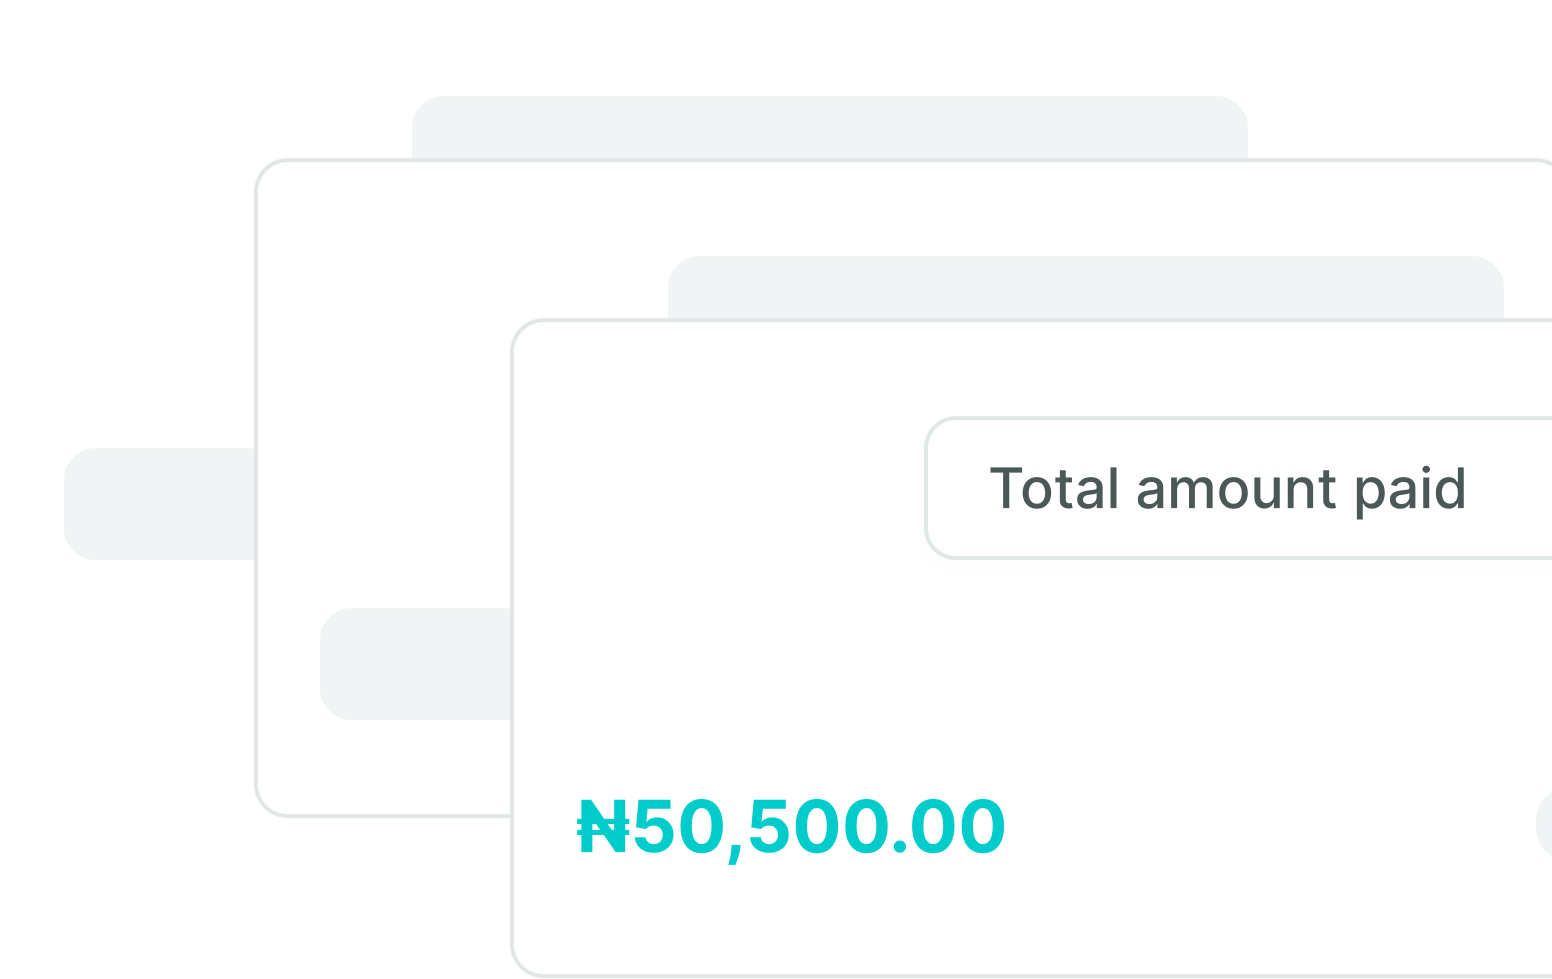
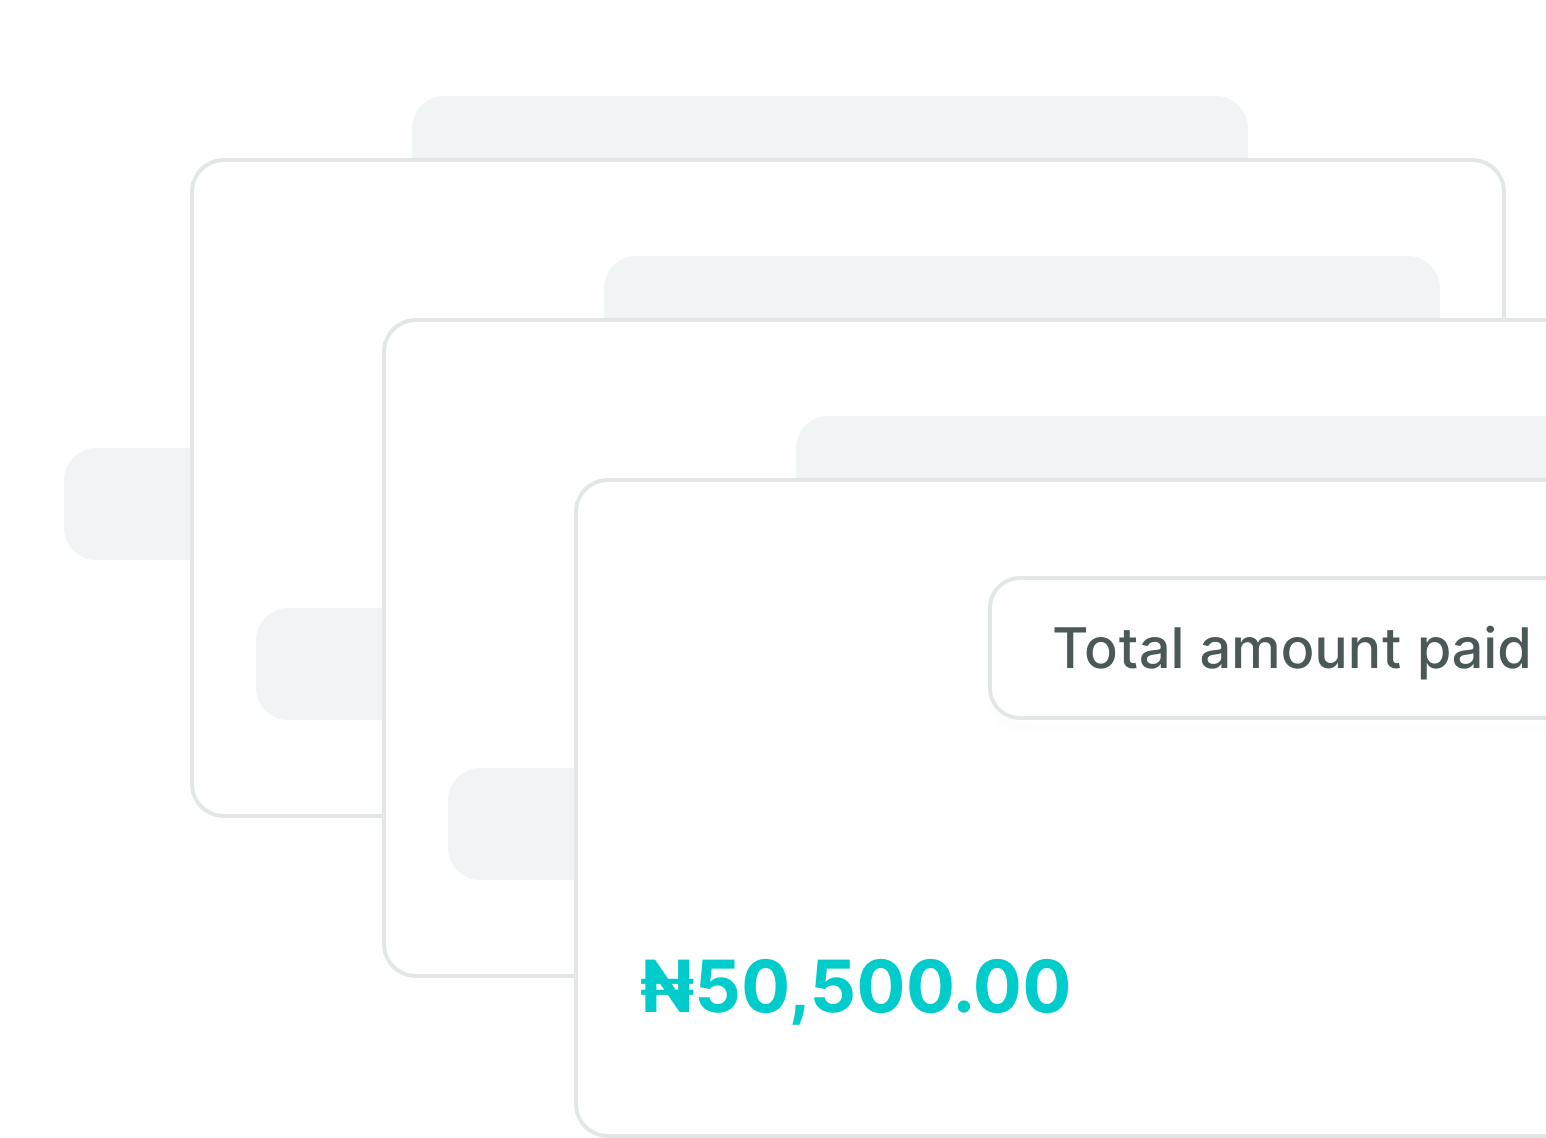
new commit

diff --git a/src/style.css b/src/style.css
@@ -183,7 +183,7 @@ body::-webkit-scrollbar {
   display: flex;
   justify-content: center;
   align-items: center;
-  padding: 32px 56px;
+  padding: 24px 80px;
   text-align: center;
   font-weight: 600;
   font-family: "Inter";
@@ -344,7 +344,7 @@ p {
 .group {
   height: 244px;
   position: relative;
-  left: 17px;
+  left: 44px;
 }
 
 .payment,
@@ -383,6 +383,13 @@ p {
   display: grid;
   place-items: center;
   gap: 24px;
+}
+
+.profilepage1 {
+  display: grid;
+  place-items: center;
+  gap: 24px;
+  padding: 80px 295px;
 }
 
 .more {
@@ -485,16 +492,16 @@ p {
 
 .arrow-left {
   padding: 12px;
-  width: 48px;
-  height: 48px;
+  width: 24px;
+  height: 24px;
   border-radius: 64px;
   background-color: hsl(180, 17%, 98%, 1);
 }
 
 .arrow-right {
   padding: 12px;
-  width: 48px;
-  height: 48px;
+  width: 24px;
+  height: 24px;
   border-radius: 64px;
   background-color: hsl(180, 17%, 98%, 1);
   transform: rotate(180deg);
@@ -531,7 +538,7 @@ p {
 .hr {
   border: 1px solid hsla(180, 11%, 89%, 1);
   transform: rotate(0deg);
-  width: 290px;
+  width: 352px;
   margin-top: 50px;
 }
 
@@ -729,6 +736,10 @@ a {
     height: 32px;
   }
 
+  .profilepage1 {
+    padding: 32px 24px;
+  }
+
   .luround4 {
     display: block;
   }
@@ -745,6 +756,10 @@ a {
     right: -600px;
     overflow-y: auto;
     transition: 0.9s ease;
+  }
+
+  .slick-slide {
+    width: 312px;
   }
 
   .help-list {
@@ -905,6 +920,10 @@ a {
   .integrated {
     font-size: 24px;
     width: 205px;
+  }
+
+  .gridcontainer {
+    padding: 32px 24px;
   }
 
   .profilepage,
@@ -1121,7 +1140,8 @@ a {
   }
 
   .datareview {
-    font-size: 14px;
+    font-size: 16px;
+    width: 280px;
   }
 
   .businessowner {
@@ -1129,11 +1149,11 @@ a {
   }
 
   .hr {
-    width: 250px;
+    width: 280px;
   }
 
   .slick-track {
-    gap: 10px;
+    gap: 0px;
   }
 
   .name {
@@ -1289,9 +1309,7 @@ a {
   }
 
   .group {
-    padding: 0px 24px;
-    height: 205px;
-    left: 25px;
+    left: 17px;
   }
 
   .profile-p {
@@ -1313,13 +1331,12 @@ a {
     font-size: 14px;
   }
   .businessimage {
-    height: 280px;
+    height: 270px;
     padding: 0px 18px;
   }
 
   .contactimage {
-    padding: 0px 24px;
-    height: 290px;
+    height: 280px;
     padding: 0px 18px;
   }
 

diff --git a/src/components/ProfilePage.jsx b/src/components/ProfilePage.jsx
@@ -2,10 +2,18 @@
 
 export default function ProfilePage() {
   return (
-    <div className='profilepage'>
+    <div className='profilepage1'>
       <div className='more'>
         <span>
-          Get <b>MORE</b> done for <b>LESS</b> with our all-in-one solution
+          Get{" "}
+          <i>
+            <b>MORE</b>
+          </i>{" "}
+          done for{" "}
+          <i>
+            <b>LESS</b>
+          </i>{" "}
+          with our all-in-one solution
         </span>
       </div>
       <div className='profileall'>
